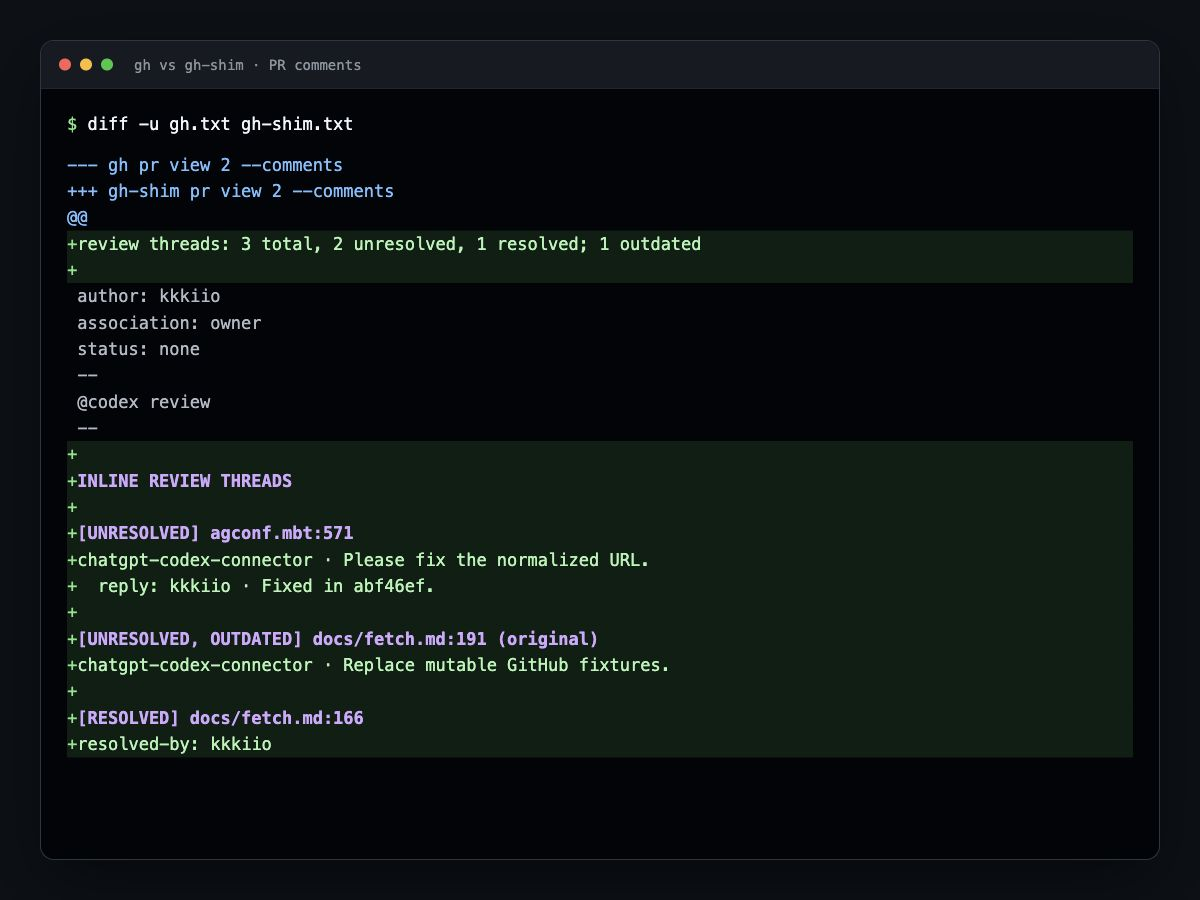
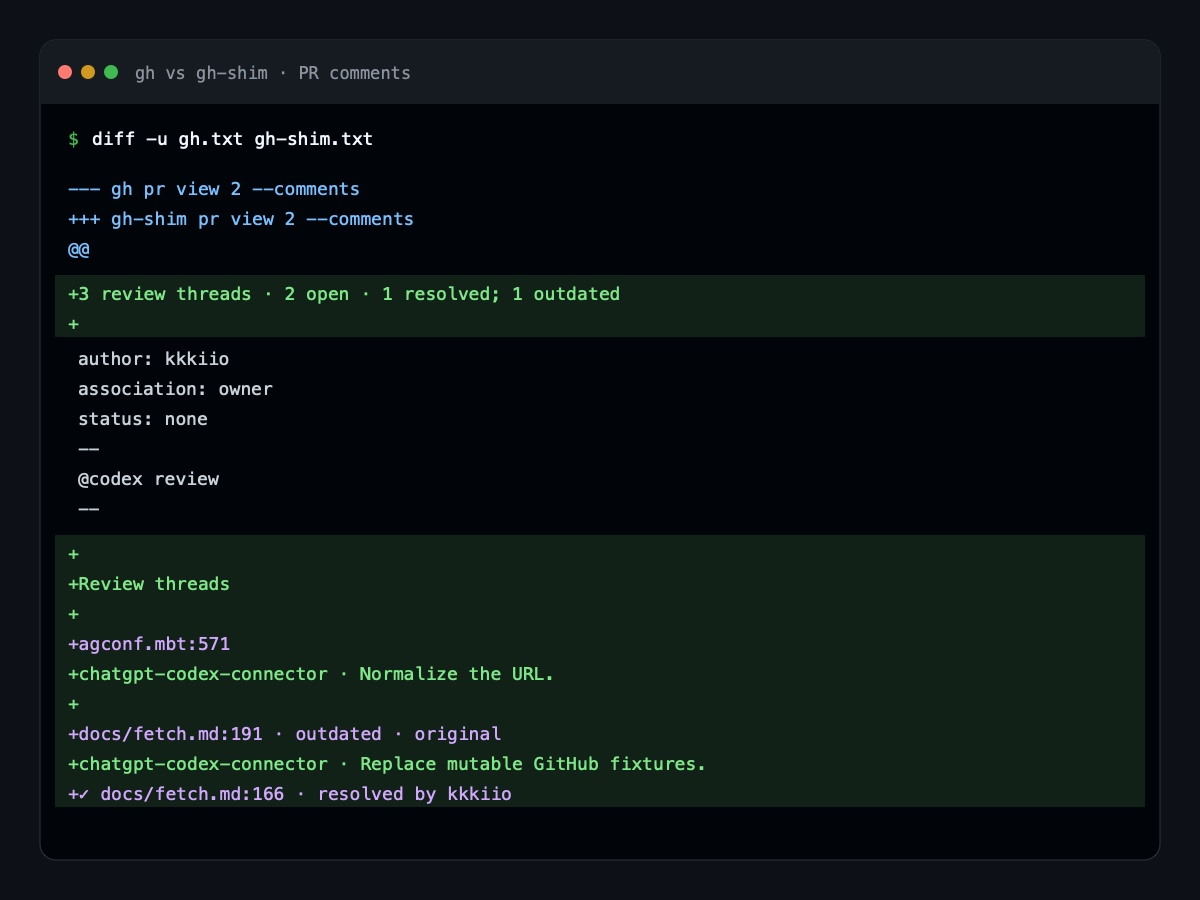
Simplify review thread output (#3)

Changed region(s): [[0.0308, 0.0622, 0.9867, 0.9022]]

diff --git a/docs/adr/0001-enhance-gh-pr-view-comments.md b/docs/adr/0001-enhance-gh-pr-view-comments.md
@@ -61,7 +61,7 @@ gh pr view <pr> --comments
 --- gh pr view 2 --comments
 +++ gh-shim pr view 2 --comments
 @@
-+review threads: 3 total, 2 unresolved, 1 resolved; 1 outdated
++3 review threads · 2 open · 1 resolved; 1 outdated
 +
  author: kkkiio
  association: owner
@@ -71,35 +71,30 @@ gh pr view <pr> --comments
  @codex review
  --
 +
-+INLINE REVIEW THREADS
++Review threads
 +
-+[UNRESOLVED] agconf.mbt:571
-+thread: PRRT_kwDOTnSuG...
-+url: https://github.com/...#discussion_r3680150505
++agconf.mbt:571
 +
-+chatgpt-codex-connector • none • 2026-07-30T05:08:26Z
++chatgpt-codex-connector
 +Normalize the URL used for operation output...
 +
-+  reply: kkkiio • owner • 2026-07-30T06:12:03Z
++  kkkiio replied
 +  Fixed in abf46ef.
 +
-+[UNRESOLVED, OUTDATED] docs/fetch.md:191 (original)
-+thread: PRRT_kwDOTnSuG...
-+url: https://github.com/...#discussion_r3680150508
++docs/fetch.md:191 · outdated · original
 +
-+chatgpt-codex-connector • none • 2026-07-30T05:08:26Z
++chatgpt-codex-connector
 +Replace mutable GitHub fixtures in the CI cram suite...
 +
-+[RESOLVED] docs/fetch.md:166
-+thread: PRRT_kwDOTnSuG...
-+resolved-by: kkkiio
-+url: https://github.com/...#discussion_r3680233694
++✓ docs/fetch.md:166 · resolved by kkkiio
 +
-+chatgpt-codex-connector • none • 2026-07-30T05:29:37Z
++chatgpt-codex-connector
 +Correct the expected nested-skill prompt name...
 ```
 
 所有 thread 都会显示，包括 resolved 和 outdated thread。`isResolved` 与 `isOutdated` 是相互独立的状态；摘要中的 outdated 数量可能与 resolved 或 unresolved 重叠。
+
+未解决 thread 是需要阅读的默认状态，因此不逐条显示状态标记。已解决 thread 使用 `✓`，outdated 和原始位置使用小写文字作为次要标记。文本输出只保留位置、处理状态、作者和评论正文；thread ID、URL、association 与时间等完整元数据保留在 JSON 输出中。
 
 Thread 按以下顺序分组：
 
@@ -115,7 +110,7 @@ Thread 按以下顺序分组：
 即使没有 inline review thread，摘要也明确显示：
 
 ```text
-review threads: 0 total
+0 review threads
 ```
 
 这表示 review threads 已经被查询且结果为空，而不是未被查询。
